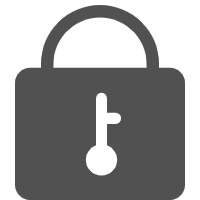
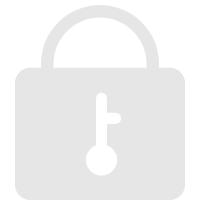
LoginPage
Better login page implemented

diff --git a/gather_ticket/src/Views/Login/Login.js b/gather_ticket/src/Views/Login/Login.js
@@ -65,16 +65,14 @@ export default class Login extends Component {
             case 1:
                 return <div className={login.last}>
                     <input type="text" placeholder="请输入手机号或邮箱" className={login.input} onChange={this.inputChange3}></input>
-                    <div className={login.input_underline}/>
                     <div className={login.logo}>
-                        <img src={require('../../Assets/images/ico/user.png')}></img>
+                        <img src={require('../../Assets/images/ico/user2.png')}></img>
                     </div>
                     <input type="password" placeholder="请输入登录密码" className={login.input} onChange={this.inputChange4}></input>
-                    <div className={login.input_underline}/>
                     <div className={login.logo1}>
                         <img src={require('../../Assets/images/ico/lock2.png')}></img>
                     </div>
-                    <div className={login.dl} onClick={this.submitForm1}>登录</div>
+                    <div className={login.dl} onClick={this.submitForm1}>LOGIN</div>
                     <div className={login.every}>
                         <div className={login.everyson}>
                             <img src={require('../../Assets/images/ico/xin.png')}></img>
@@ -181,6 +179,7 @@ export default class Login extends Component {
     render() {
         return (
             <div className={login.bg}>
+                <div className={login.bg_mask}/>
                 <div className={login.firstbox}>
                     <div className={login.imgbox}>
                         <img src={require('../../Assets/images/logo.png')}></img>
@@ -188,11 +187,11 @@ export default class Login extends Component {
                 </div>
                 <div className={login.secondbox}>
                     <div className={login.loginbox}>
-                        <div className={login.loginboxfirst}>
-                            <div className={this.state.cardInfo ? login.loginboxfirstson1 : login.loginboxfirstson} onClick={this.changeStyle}>密码登录</div>
-                            <div className={this.state.cardInfo1 ? login.loginboxfirstson1 : login.loginboxfirstson} onClick={this.changeStyle1}>用户注册</div>
-                            <div className={this.state.cardInfo2 ? login.loginboxfirstson1 : login.loginboxfirstson} onClick={this.changeStyle2}>扫码登录</div>
-                        </div>
+                        {/*<div className={login.loginboxfirst}>*/}
+                        {/*    <div className={this.state.cardInfo ? login.loginboxfirstson1 : login.loginboxfirstson} onClick={this.changeStyle}>密码登录</div>*/}
+                        {/*    <div className={this.state.cardInfo1 ? login.loginboxfirstson1 : login.loginboxfirstson} onClick={this.changeStyle1}>用户注册</div>*/}
+                        {/*    <div className={this.state.cardInfo2 ? login.loginboxfirstson1 : login.loginboxfirstson} onClick={this.changeStyle2}>扫码登录</div>*/}
+                        {/*</div>*/}
                         {this.display()}
                     </div>
                 </div>

diff --git a/gather_ticket/src/Views/Login/Login.module.css b/gather_ticket/src/Views/Login/Login.module.css
@@ -1,6 +1,18 @@
 .bg{
-    background-image: url("../../Assets/images/loginbg2.jpg") ;
-    background-size: 100%;
+    background-image: url("../../Assets/images/loginbg3.jpg") ;
+    background-size: 100% 100%;
+
+}
+.bg_mask{
+    position: absolute;
+    z-index: 0;
+    width: 100%;
+    height: 100%;
+    display: block;
+    left: 0;
+    top: 0;
+    content: "";
+    background-color: rgba(0,0,0,.55);
 }
 .firstbox{
     width: 100%;
@@ -13,11 +25,11 @@
     margin-left: 160px;
     margin-top: 30px;
     float: top;
+    z-index: 1;
 }
 .imgbox img{
     width: 110px;
     height: 50px;
-    z-index: 1;
 }
 .secondbox{
     width: 100%;
@@ -29,17 +41,17 @@
     height: auto;
     margin-top: -100px;
     margin-left: 0;
-    z-index: 0;
+    z-index: 1;
 }
 .loginbox{
     width: 330px;
     height: 380px;
-    background-color: #FFFFFF;
+
     margin-top: 100px;
-    margin-left: 960px;
+    margin-left: 600px;
     border-radius: 5px 5px 5px 5px;
     box-shadow: 0 2px 2px 0 rgba(0, 0, 0, 0.14), 0 3px 1px -2px rgba(0, 0, 0, 0.2), 0 1px 5px 0 rgba(0, 0, 0, 0.12);
-    opacity: 0.85;
+    z-index: 1;
 }
 .loginboxfirst{
     width: 100%;
@@ -70,21 +82,25 @@
     position: relative;
 }
 .input{
-    width: 280px;
-    height: 42px;
-    margin-top: 25px;
-    margin-bottom: 20px;
+    width: 320px;
+    height: 48px;
+    margin-top: 20px;
     margin-left: 25px;
     box-sizing: border-box;
     padding-left: 50px;
     outline: none;
     border: none;
-    border-bottom: 1px solid #CCCCCC;
+    border-radius: 30px;
     transition: cubic-bezier(0.0, 0, 0.2, 1) 200ms;
+    background-color: hsla(0,0%,100%,.2);
+
+}
+.input::-webkit-input-placeholder{
+    color: hsla(0,0%,100%,.5);
 }
 .input:focus{
     border: none;
-    border-bottom: 2px solid #ff3366;
+    background-color: hsla(0,0%,100%,.3);
 }
 .input::-webkit-input-placeholder {
     font-size: 15px;
@@ -106,7 +122,7 @@
     position: absolute;
     width: 40px;
     height: 40px;
-    top: 114px;
+    top: 92px;
     left: 26px;
 }
 .logo1 img{
@@ -116,17 +132,20 @@
     margin-left: 10px;
 }
 .dl{
-    width: 280px;
-    height: 42px;
-    margin-top: 20px;
+    width: 320px;
+    height: 48px;
+    margin-top: 64px;
     margin-left: 25px;
-    background:linear-gradient(to right,#ff3366,#FF1D76);
+    background:linear-gradient(to right,#BF264D,#FF1D76);
     text-align: center;
     line-height: 42px;
     color: #FFFFFF;
     border: 1px solid #ff3366;
-    border-radius: 5px;
+    border-radius: 30px;
     font-size: 20px;
+}
+.dl:hover{
+    background: #FF1D76;
 }
 .every{
     width: 110px;
